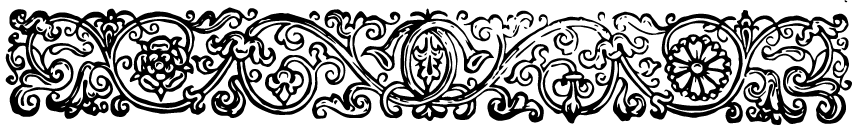
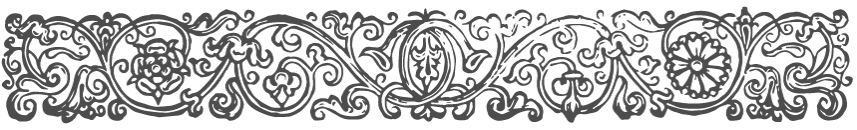
Add folio images.

diff --git a/index.html b/index.html
@@ -9,7 +9,9 @@ title: Home | James Loehlin Birthday Picnic and Memorial
 
 <cover-l centered="center-l" minHeight="88vh">
   {% include nav.html %}
-  <!-- <img src="/assets/images/folio/2-long.png" class="margin:0" alt=""> -->
+  <center-l>
+    <img src="/assets/images/folio/2-long.png" style="width:100%; max-width: 65ch;" class="margin:0" alt="">
+  </center-l>
   <center-l class="stack" andText>
     <frame-l ratio="1:1" class="padding:0">
       <img src="/assets/images/james-ut-cropped.jpg" alt="James Loehlin" class="circle" style="width: 12rem; height: auto">

diff --git a/participate.html b/participate.html
@@ -10,6 +10,9 @@ description: Learn how to participate in the memorial for James Loehlin.
 
 <cover-l centered="div" minHeight="10vh">
   {% include nav.html %}
+  <center-l>
+    <img src="/assets/images/folio/1-long.png" style="width:100%; max-width: 65ch;" class="margin:0" alt="">
+  </center-l>
   <div class="stack">
     <h1 class="text-align:center">Participate</h1>
   </div>
